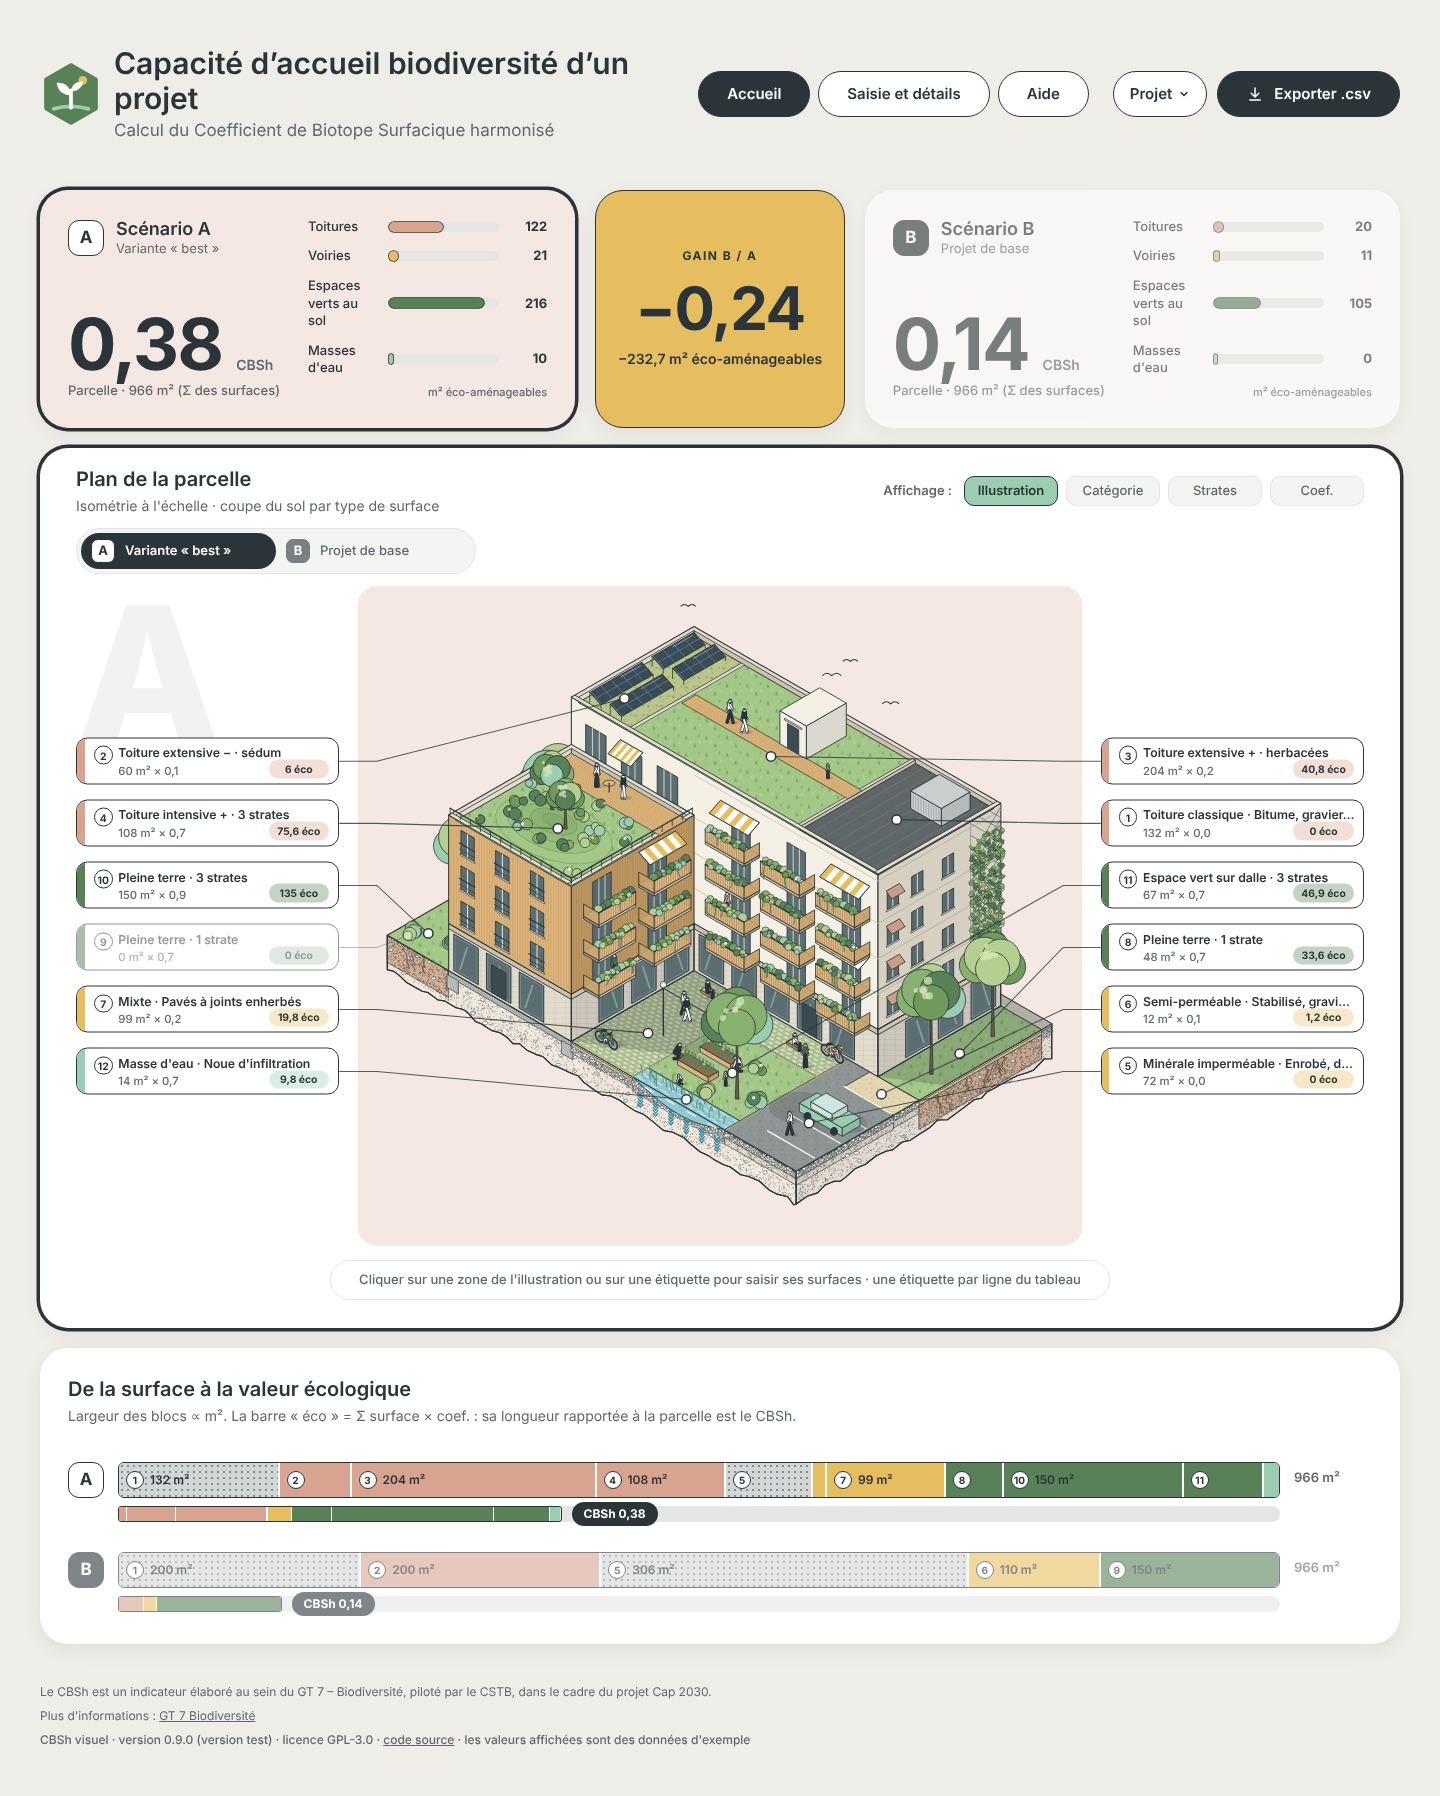
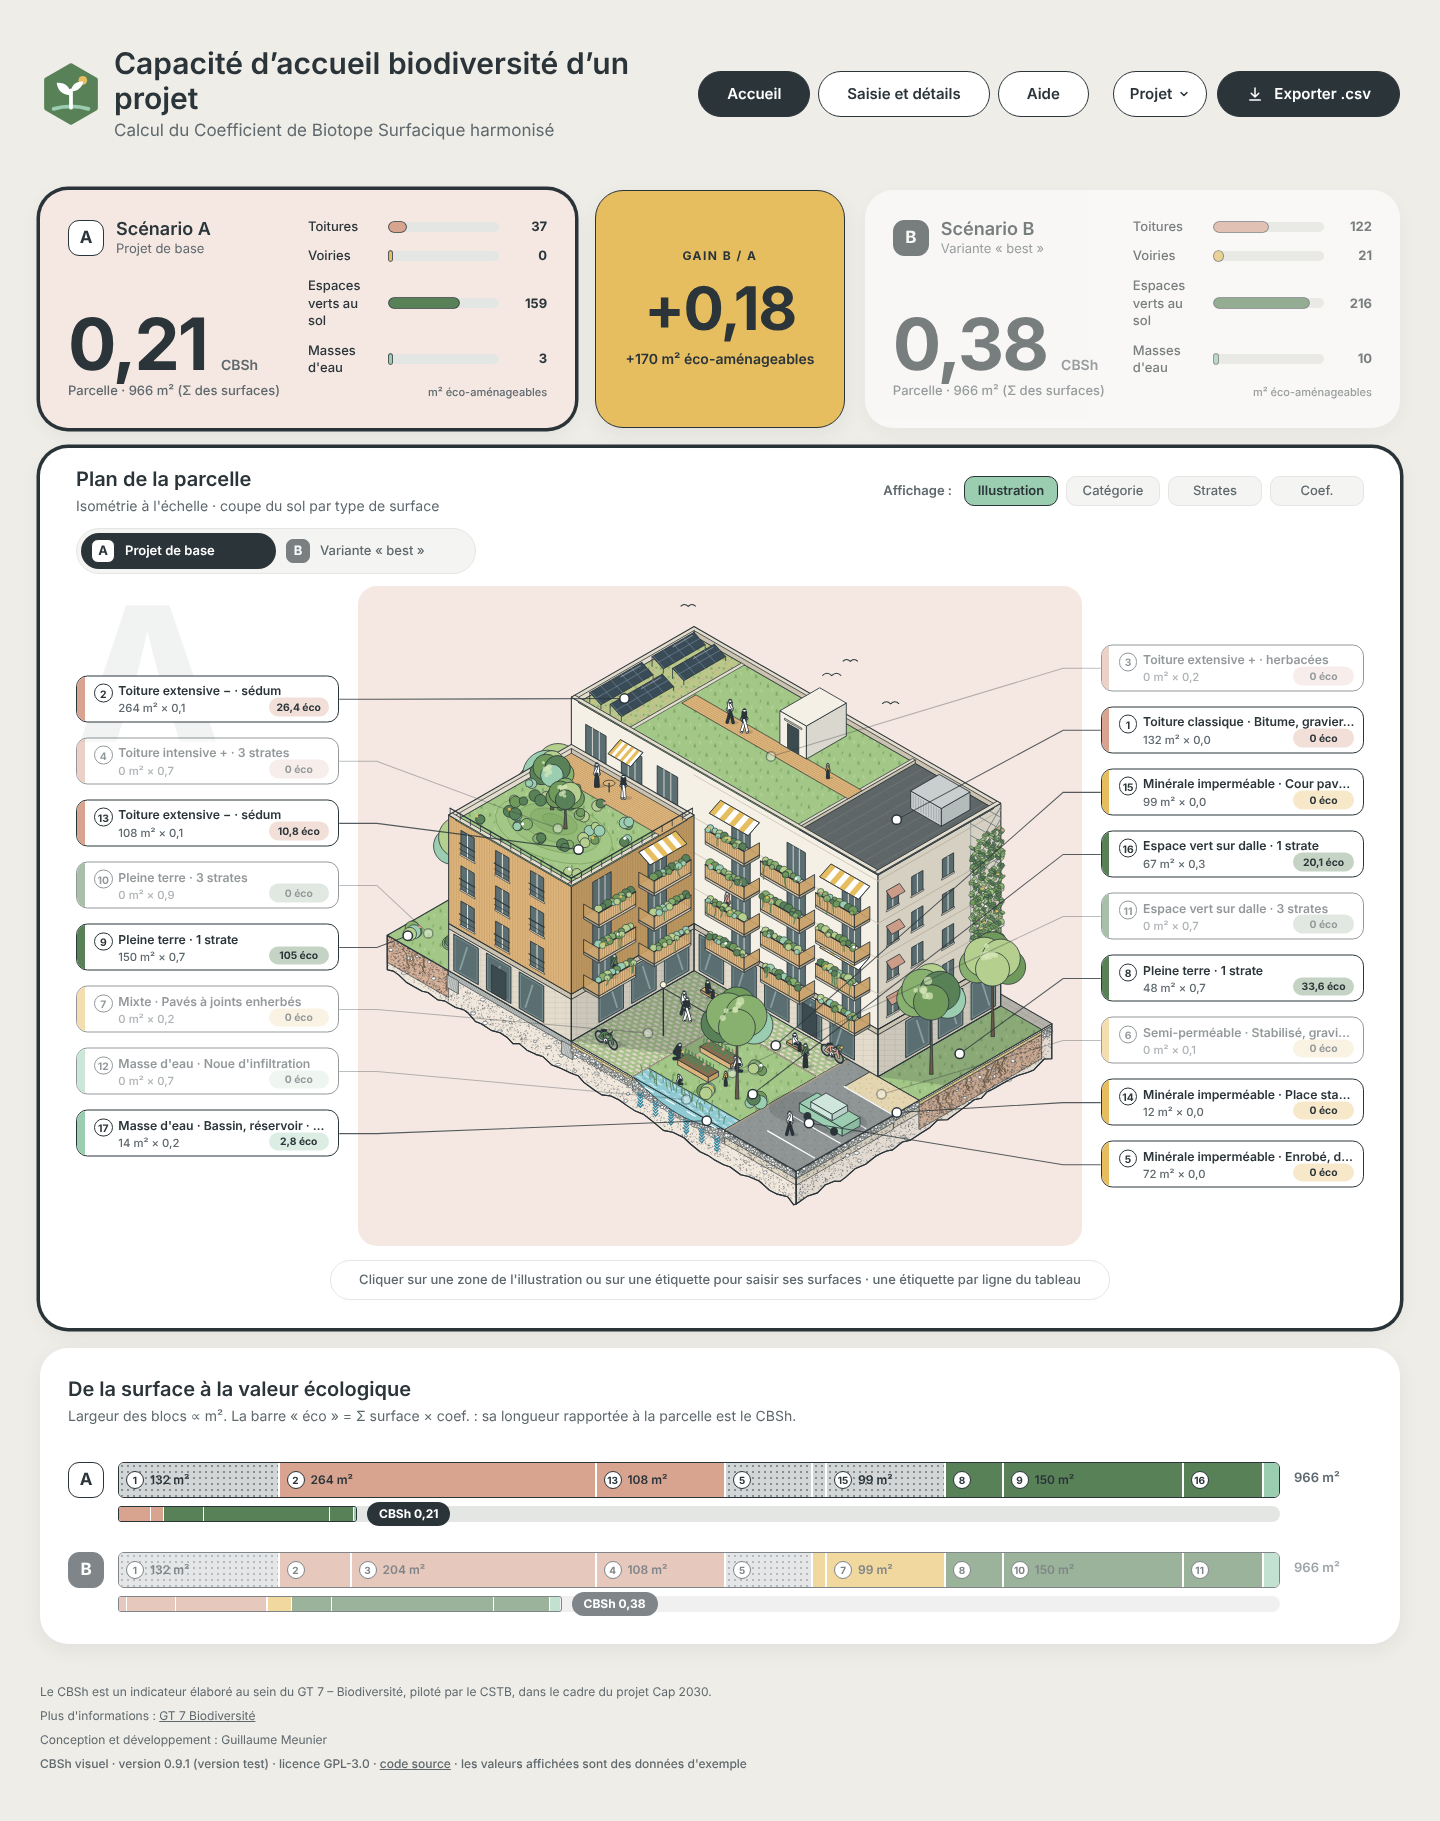
0.9.1 — nouveaux scénarios d'exemple : A = valeurs par défaut (0,21), B = variante best (0,38), mêmes surfaces par zone ; lignes 13 à 17
Claude-Session: https://claude.ai/code/session_01BgmHvdcDSvz5wtxkCx9Bdd

diff --git a/index.html b/index.html
@@ -117,8 +117,8 @@
         <button type="button" class="bouton-aff" aria-pressed="false" aria-disabled="true" tabindex="-1" title="Modes d'affichage : à venir">Coef.</button>
       </div>
       <div class="selecteur" role="group" aria-label="Scénario actif">
-  <button type="button" class="seg actif" aria-pressed="true" data-scenario="A"><span class="lettre lettre-a" aria-hidden="true">A</span><span data-nom-scenario="A">Variante « best »</span></button>
-  <button type="button" class="seg" aria-pressed="false" data-scenario="B"><span class="lettre lettre-b" aria-hidden="true">B</span><span data-nom-scenario="B">Projet de base</span></button>
+  <button type="button" class="seg actif" aria-pressed="true" data-scenario="A"><span class="lettre lettre-a" aria-hidden="true">A</span><span data-nom-scenario="A">Projet de base</span></button>
+  <button type="button" class="seg" aria-pressed="false" data-scenario="B"><span class="lettre lettre-b" aria-hidden="true">B</span><span data-nom-scenario="B">Variante « best »</span></button>
 </div>
     </header>
 
@@ -162,8 +162,8 @@
           <p class="sous-carte">Une tranche du projet · n° = ligne du tableau</p>
         </div>
         <div class="selecteur selecteur--court" role="group" aria-label="Scénario actif">
-  <button type="button" class="seg actif" aria-pressed="true" data-scenario="A"><span class="lettre lettre-a" aria-hidden="true">A</span><span data-nom-court="A">Variante « best »</span></button>
-  <button type="button" class="seg" aria-pressed="false" data-scenario="B"><span class="lettre lettre-b" aria-hidden="true">B</span><span data-nom-court="B">Projet de base</span></button>
+  <button type="button" class="seg actif" aria-pressed="true" data-scenario="A"><span class="lettre lettre-a" aria-hidden="true">A</span><span data-nom-court="A">Projet de base</span></button>
+  <button type="button" class="seg" aria-pressed="false" data-scenario="B"><span class="lettre lettre-b" aria-hidden="true">B</span><span data-nom-court="B">Variante « best »</span></button>
 </div>
       </header>
       <div class="coupe-cadre">
@@ -339,7 +339,7 @@
   <p>Le CBSh est un indicateur élaboré au sein du GT 7 – Biodiversité, piloté par le CSTB, dans le cadre du projet Cap 2030.</p>
   <p>Plus d'informations : <a href="https://www.planbatimentdurable.developpement-durable.gouv.fr/gt-biodiversite-a1638.html" rel="noopener">GT 7 Biodiversité</a></p>
   <p>Conception et développement : Guillaume Meunier</p>
-  <p class="pied-version">CBSh visuel · version 0.9.0 (version test) · licence GPL-3.0 · <a href="https://github.com/alliages/cbsh_visuel" rel="noopener">code source</a> · les valeurs affichées sont des données d'exemple</p>
+  <p class="pied-version">CBSh visuel · version 0.9.1 (version test) · licence GPL-3.0 · <a href="https://github.com/alliages/cbsh_visuel" rel="noopener">code source</a> · les valeurs affichées sont des données d'exemple</p>
 </footer>
 
 </div>

diff --git a/outils/generer_zones.py b/outils/generer_zones.py
@@ -34,14 +34,14 @@ ZONES = [
         {"ancres_m": {9: (1, 24), 10: (1, 22)}}),
     ("venelle-dalles",     "Venelle dallée (non comptée dans le CBSh)", "inerte", None, [],   0,     [(6, 40, 0, 1)], {}),
     ("bande-est",          "Bande plantée (est)",                      "saisie", "ev",  [8],  0,     [(36, 40, 1, 13)], {}),
-    ("stabilise",          "Place stabilisée",                         "saisie", "voi", [6],  0,     [(35.2, 40, 13, 15.5)], {}),
+    ("stabilise",          "Place stabilisée",                         "saisie", "voi", [6, 14], 0,  [(35.2, 40, 13, 15.5)], {"ancres_m": {14: (39.1, 14.25)}}),
     ("enrobe",             "Parking enrobé",                           "saisie", "voi", [5],  0,     [(33, 40, 15.5, 25), (33, 35.2, 13, 15.5)], {}),
-    ("paves",              "Cour pavée (joints enherbés)",             "saisie", "voi", [7],  0,     [(18, 33, 13, 16), (18, 24, 16, 25)], {}),
-    ("jardin-dalle",       "Jardin sur dalle",                         "saisie", "ev",  [11], 0,     [(24, 33, 16, 23.5)], {}),
-    ("noue",               "Masses d'eau (noue d'infiltration)",       "saisie", "eau", [12], 0,     [(24, 33, 23.5, 25)], {}),
+    ("paves",              "Cour pavée (joints enherbés)",             "saisie", "voi", [7, 15], 0,  [(18, 33, 13, 16), (18, 24, 16, 25)], {"ancres_m": {15: (27.5, 14.5)}}),
+    ("jardin-dalle",       "Jardin sur dalle",                         "saisie", "ev",  [11, 16], 0, [(24, 33, 16, 23.5)], {"ancres_m": {16: (30.5, 19.75)}}),
+    ("noue",               "Masses d'eau (noue d'infiltration)",       "saisie", "eau", [12, 17], 0, [(24, 33, 23.5, 25)], {"ancres_m": {17: (30.5, 24.25)}}),
     ("toit-terrasse-plot", "Terrasse bois du plot",                    "info",   None,  [],   12.75, [(6.35, 17.65, 13.35, 16)],
         {"info": {"titre": "Terrasse bois du plot", "texte": TEXTE_TERRASSE}}),
-    ("toit-butte-plot",    "Toiture intensive haute du plot (butte)",  "saisie", "bat", [4],  12.75, [(6.35, 17.65, 16, 24.65)], {}),
+    ("toit-butte-plot",    "Toiture intensive haute du plot (butte)",  "saisie", "bat", [4, 13], 12.75, [(6.35, 17.65, 16, 24.65)], {"ancres_m": {13: (14, 20.3)}}),
     ("toit-bitume",        "Toiture bitume de la barre",               "saisie", "bat", [1],  16.75, [(28, 35.65, 1.35, 12.65)],
         {"note": "Cette ligne regroupe aussi la terrasse bois du plot, assimilée à une toiture classique."}),
     # Barre : lignes 2 (sédum, sous les panneaux) et 3 (extensif herbacées). Les panneaux (zone d'information, au-dessus, sur

diff --git a/ROADMAP.md b/ROADMAP.md
@@ -9,7 +9,7 @@ Décisions de conception et spécification détaillée : voir `claude/PASSATION_
 - [x] Représentation symbolique : une zone = une grande catégorie (la noue = toute la catégorie « eau »)
 - [x] Logo « Pousse » et favicons
 
-## Synthèse (état à la 0.9.0, version test)
+## Synthèse (état à la 0.9.1, version test)
 **Fonctionne** : calcul CBSh de deux scénarios (A, B) avec comparaison, vérifié sur un cas de référence ; Accueil (axonométrie cliquable, légendes à gauche et à droite, zones à 0 m² grisées, cartes de bascule) ; saisie par popups de zone et par tableau (ajout, suppression des lignes vides) ; noms de scénarios modifiables ; onglet Aide intégré ; sauvegarde automatique dans le navigateur ; export / import JSON ; export CSV pour Excel. Réglages regroupés dans `js/config.js`. 44 tests Node (calcul, cas de référence, données, validation, CSV, configuration).
 **Pour la 1.0** (première version annoncée et diffusée) : retours des testeurs de la 0.9.0 ; mise en page mobile (< 900 px) ; source du texte « végétalisation et photovoltaïque ».
 **Prochaine version technique (0.9.2)** : découper `app.js` (formats, étiquettes, popups, sauvegarde/import) et tester la logique pure extraite ; alléger l'axo.
@@ -32,9 +32,12 @@ Décisions de conception et spécification détaillée : voir `claude/PASSATION_
 - [x] 0.8.17 corrections de l'audit : zone des lignes créées, import (parcelle forcée typée, surfaces bornées), politique de sécurité de contenu, grisage mémorisé, sauvegarde différée
 - [x] 0.8.18 lisibilité : `js/config.js`, variables en tête, lignes longues coupées, outils Python factorisés (`outils/constantes.py`)
 - [x] 0.9.0 version test : calcul vérifié sur cas de référence, aide corrigée (Σ ≤ parcelle) et complétée, arrondi commun des m² éco, plus de débordement horizontal dès 1 101 px
+- [x] 0.9.1 nouveaux scénarios d'exemple : A = valeurs par défaut (CBSh 0,206), B = variante « best » (0,382), mêmes surfaces par zone ; lignes 13 à 17 (valeurs par défaut)
 - [ ] 0.9.2 découpage de `app.js` en scripts (formats, étiquettes, popups, sauvegarde) et tests de la logique pure ; allègement de l'axo
 
 ## Idées / évolutions
+- [ ] **Vue du ciel à l'échelle** du projet créé dans l'application : plan 2D généré à partir des surfaces saisies (parcelle, emprise bâtie, zones par catégorie), en complément ou à la place de l'axonométrie symbolique (les surfaces restent modifiables, l'axo n'a pas de valeur d'échelle)
+- [ ] Une ligne = une seule typologie : changer de typologie sur une même surface oblige à déplacer la surface d'une ligne à l'autre (17 lignes dans l'exemple, dont la moitié à 0 m² dans chaque scénario). Étudier une typologie propre à chaque scénario pour une même ligne (lecture plus simple de l'Accueil et du tableau)
 - [x] Aide : mentionner la sauvegarde automatique, l'export CSV / JSON et l'import (menu « Projet »)
 - [x] Zone d'une ligne créée : `ligne.zone` prime sur les listes de `zones.json` (0.8.17, `zoneDeLigne` dans `calcul.js`)
 - [ ] Projet restauré : proposer de revenir à la version du site quand l'exemple change

diff --git a/CHANGELOG.md b/CHANGELOG.md
@@ -1,5 +1,15 @@
 # Changelog — Outil CBSh
 
+## 0.9.1 — nouveaux scénarios d'exemple : A = valeurs par défaut, B = variante « best », mêmes surfaces
+- **Projet d'exemple refait sur les surfaces de l'axonométrie** : les deux scénarios ont désormais, zone par zone, les mêmes surfaces (Σ = 966 m² comptés ; la venelle dallée de 34 m² reste hors CBSh). Seules les typologies, donc les coefficients, changent. Avant, la base comptait 400 m² de toitures, 450 m² de voiries et 150 m² d'espaces verts, là où l'illustration en dessine 504, 231 et 217 (+ 14 m² d'eau) : les deux scénarios décrivaient deux projets différents.
+- **A = « Projet de base » = coefficients par défaut de la nomenclature** (ceux de « Je ne sais pas » : sédum 0,1 sur les toitures végétalisées, minérale imperméable 0 pour les voiries, pleine terre 1 strate 0,7, espace vert sur dalle < 30 cm 0,3, bassin 0,2). **CBSh 198,7 / 966 = 0,2057.**
+- **B = « Variante « best » » = typologies dessinées dans l'axonométrie** (inchangées depuis 0.9.0, ex-scénario A). **CBSh 368,7 / 966 = 0,3817.** Gain B − A : **+ 170,0 m² éco, + 0,176** (il était négatif, − 232,7, depuis l'échange des noms en 0.8.14).
+- **Cinq lignes ajoutées (n° 13 à 17)** : valeur par défaut des zones dont la variante change de typologie (butte du plot, place stabilisée, cour pavée, jardin sur dalle, noue). Une ligne porte une seule typologie : changer de typologie sur la même surface revient à déplacer la surface d'une ligne à l'autre. Ces lignes sont à 0 m² dans B, comme les lignes propres à B le sont dans A. La ligne 2 (sédum) porte les 264 m² de toiture extensive de la barre dans A (60 m² dans B).
+- `outils/generer_zones.py` : les cinq lignes sont rattachées à leurs zones, avec un repère propre (`ancres_m`) ; `data/zones.json` régénéré (seules les zones concernées changent).
+- **Tests** : 45, dont un nouveau (surfaces égales dans A et B, zone par zone) ; cas de référence recalculé à la main (tableau dans `outils/tests/test_calcul.mjs`) ; gain testé dans le sens B − A.
+- **Pied de page et README** : version 0.9.1.
+- **Inchangé** : code de l'application (`js/`), nomenclature, aide. Une sauvegarde locale existante dans le navigateur reste affichée à la place de l'exemple : menu « Projet » → « Revenir à l'exemple ».
+
 ## 0.9.0 — version test : l'outil fonctionne
 - **Calcul vérifié sur un cas de référence** : le projet d'exemple enregistré (Σ des surfaces = 966 m² dans A comme dans B). Valeurs calculées à la main, indépendamment du code, et inscrites dans les tests : A = 368,7 m² éco, CBSh 0,3817 ; B = 136 m² éco, CBSh 0,1408 ; contributions par catégorie (toitures, voiries, espaces verts, eau) et variante à parcelle forcée (1 000 m² : 0,3687 et 0,136 ; 34 m² non comptés ; dépassement signalé).
 - **Règle de la somme des surfaces harmonisée** : l'aide disait que la somme « doit être égale » à la parcelle, l'outil accepte Σ ≤ parcelle. Texte corrigé : la somme ne peut pas dépasser la surface de la parcelle ; la part non saisie compte pour 0 ; sans valeur, l'outil retient la somme des surfaces.

diff --git a/README.md b/README.md
@@ -10,7 +10,7 @@ Outil web gratuit de calcul et de comparaison du **CBSh** (coefficient de biotop
 
 - Version : voir `VERSION` · historique : `CHANGELOG.md` · suite : `ROADMAP.md`
 - Licence : GPL-3.0 (`LICENSE`)
-- **Version 0.9.0 : version test.** Les valeurs affichées au démarrage sont des données d'exemple. Retours bienvenus avant la première version annoncée (1.0).
+- **Version 0.9.1 : version test.** Les valeurs affichées au démarrage sont des données d'exemple. Retours bienvenus avant la première version annoncée (1.0).
 
 > Le CBSh est un indicateur élaboré au sein du GT 7 – Biodiversité, piloté par le CSTB, dans le cadre du projet Cap 2030 (nomenclature de septembre 2024). L'outil en ligne du CSTB est propriétaire : seule la méthode est reprise ici.
 
